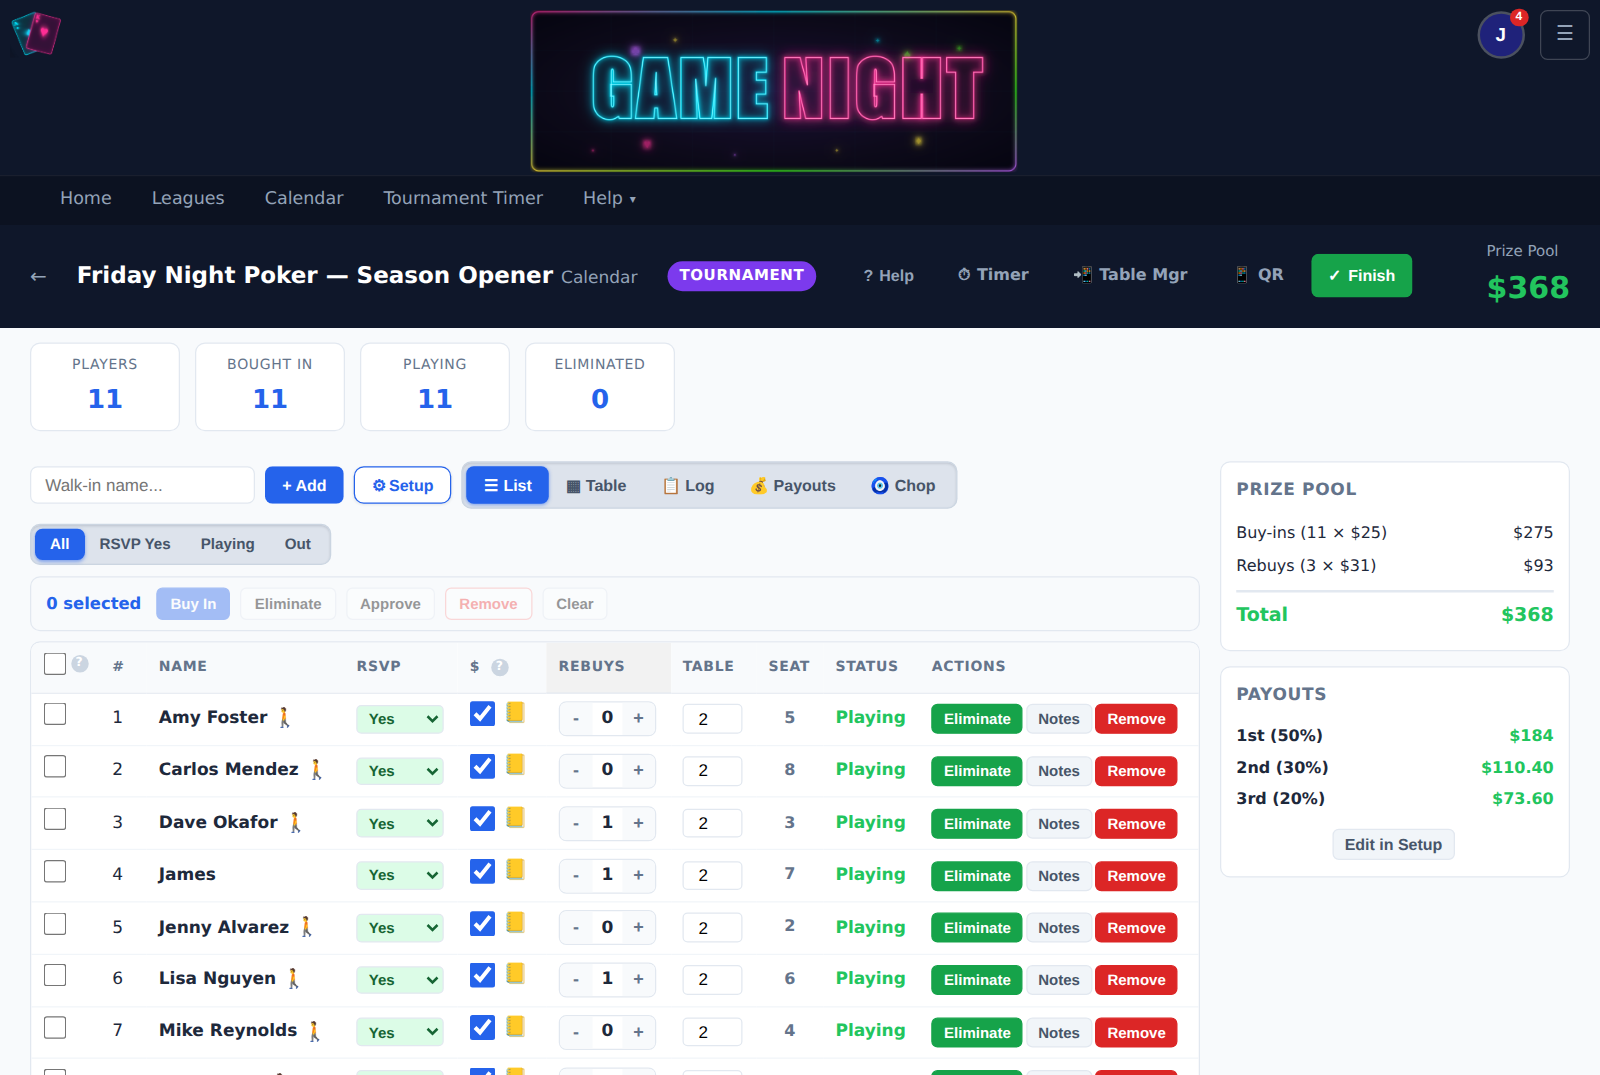
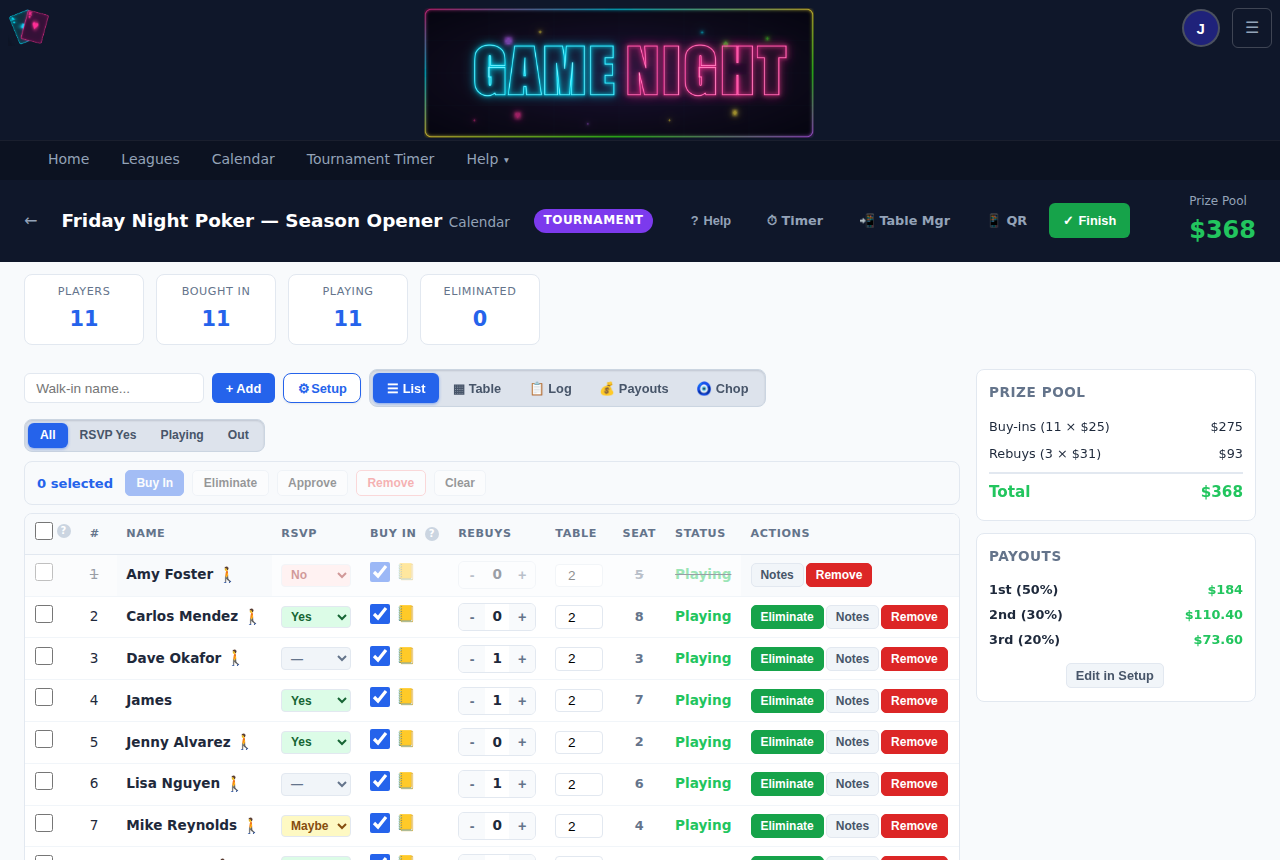
The Host Guide's step 7 describes the screen a host actually lands on (v1.8.3)
It said the first visit to "Check-in" shows a Start Poker Session form
and to press Create Session & Import Players. An event saved with Poker
on, which is the usual case, already has its game, so Manage Game opens
straight on the dashboard with everyone who said Yes on the list; the
form only appears for an event saved without poker. The step now says
so, uses the button's real name, describes Buy In seating players and
the Table view's Move, Add Table and Balance as they are, points at the
dashboard's ? Help, and ends with Finish and its warnings. The payouts
note names Edit in Setup rather than buttons that no longer exist.
checkin-start.png retaken so the picture shows the Buy In column.

diff --git a/www/help-hosts.php b/www/help-hosts.php
@@ -130,13 +130,9 @@ $allow_reg   = get_setting('allow_registration', '1') === '1';
 
     <div class="help-step">
         <h2><span class="step-num">7</span> Start the game</h2>
-        <p>On event day, open the event and go to <strong>Check-in</strong>. The first time you do, you'll see the <strong>Start Poker Session</strong> form:</p>
-        <ul>
-            <li><strong>Game Type</strong> &mdash; <em>Tournament</em> or <em>Cash Game</em>.</li>
-            <li><strong>Buy-in $</strong>, and for tournaments also <strong>Rebuy $</strong>, <strong>Add-on $</strong>, <strong>Starting Chips</strong>, and <strong>Add-on Chips</strong>.</li>
-            <li><strong>Number of Tables</strong>.</li>
-        </ul>
-        <p>Click <strong>Create Session &amp; Import Players</strong> &mdash; this pulls in everyone who RSVP'd Yes. On the check-in dashboard you can add walk-ins with the name field and <strong>+ Add</strong>, filter by <strong>All / RSVP Yes / Playing / Out</strong>, and switch to the <strong>Table</strong> view to seat people, where <strong>Balance</strong> auto-assigns tables and seats. The <strong>QR</strong> button opens a registration screen players can scan to sign themselves in.</p>
+        <p>On event day, open the event and press <strong>Manage Game</strong>. An event saved with <strong>Poker</strong> on (the usual case; it is on unless you turned it off) already has its game, with the buy-in, tables and seats you set, and everyone who answered Yes is on the list. You land straight on the dashboard.</p>
+        <p>An event saved without poker shows a short <strong>Start Poker Session</strong> form first instead: the game type (<em>Tournament</em> or <em>Cash Game</em>), the buy-in, for a tournament the rebuy, add-on and starting chips, and the number of tables. <strong>Create Session &amp; Import Players</strong> pulls in everyone who RSVP'd Yes.</p>
+        <p>On the dashboard, add walk-ins with the name field and <strong>+ Add</strong>, filter by <strong>All / RSVP Yes / Playing / Out</strong>, and tick <strong>Buy In</strong> as each player pays: that checks them in and gives them a seat. The <strong>Table</strong> view shows who sits where, with <strong>Move&hellip;</strong>, <strong>Add Table</strong> when the room outgrows one, and <strong>Balance</strong> to even the tables out. The <strong>QR</strong> button opens a registration screen players can scan to sign themselves in, and <strong>? Help</strong> on the dashboard explains every control on it.</p>
         <img class="help-shot" src="/img/help/checkin-start.png?v=<?= @filemtime(__DIR__ . '/img/help/checkin-start.png') ?: 0 ?>" alt="The check-in dashboard with a session running: player rows with buy-in, rebuys, table, seat and status, the Setup button, the List / Table / Log / Payouts / Chop views, and the prize pool">
         <p>When you're ready to play, click <strong>Timer</strong> to put the tournament clock on the big screen. It runs the blind schedule from <strong>Setup &rarr; Blinds</strong>, with your default structure loaded for you, breaks included. Everything about the game, blinds included, is edited in <strong>Setup</strong>, which is the next step.</p>
         <img class="help-shot" src="/img/help/blind-structure.png?v=<?= @filemtime(__DIR__ . '/img/help/blind-structure.png') ?: 0 ?>" alt="Setup → Blinds: the level grid with durations, blinds, antes, a break and start times">
@@ -145,8 +141,8 @@ $allow_reg   = get_setting('allow_registration', '1') === '1';
         <p>If you can manage the game, the display carries a control tray along its bottom edge: start / stop, previous and next level, <strong>&minus;1m</strong> / <strong>+1m</strong>, reset the level, undo, fullscreen, and <strong>Exit</strong> back to check-in. From a keyboard, the space bar starts and stops and the arrow keys step a level. Everyone else sees a clean clock. Eliminations and rebuys are marked here on the check-in dashboard as the night goes on (every player row has them), and the display follows.</p>
         <img class="help-shot" src="/img/help/timer-running.png?v=<?= @filemtime(__DIR__ . '/img/help/timer-running.png') ?: 0 ?>" alt="The Tournament Timer's Default Layout on a live game: the clock, blinds, next level and next break, players, average stack, entries and prize pool, the QR code, and the control tray along the bottom">
         <div class="hint">The display, casting it to more screens and building a layout of your own are covered in the <a href="/help-timer.php">Timer Guide</a>. Prefer the original clock? <strong>Tournament Timer Classic</strong> is a switch away under Setup &rarr; Timer.</div>
-        <p>That's it. After the event, results lock in and stats update automatically.</p>
-        <div class="hint"><strong>Payouts aren't loaded by default.</strong> No payout structure is set up automatically, so the <strong>Payouts</strong> card starts empty. If you want payout tracking (who finishes in the money, and for how much), set up a split first &mdash; use <strong>Edit in Settings</strong> on the Payouts card, or the <strong>Payout</strong> button on the check-in dashboard.</div>
+        <p>At the end, <strong>Finish</strong> locks in the standings and payouts and the stats update. It warns first if players are still in or no payout structure is set, and <strong>Reopen</strong> puts the game back if something was wrong. A tournament finishes by itself when the last player is eliminated.</p>
+        <div class="hint"><strong>Payouts aren't loaded by default.</strong> A game made from the event's Poker settings starts with no payout structure, so the <strong>Payouts</strong> card is empty. If you want payout tracking (who finishes in the money, and for how much), set up a split first: <strong>Edit in Setup</strong> on the Payouts card, which is <strong>Setup &rarr; Payouts &amp; Rewards</strong>.</div>
         <div class="hint">If you turned on <strong>Approval</strong> for the event, players who register by scanning the QR code land in <strong>pending approval</strong> until you wave them in from the check-in dashboard.</div>
     </div>
 

diff --git a/www/version.php b/www/version.php
@@ -1,5 +1,5 @@
 <?php
-define('APP_VERSION', '1.8.2');
+define('APP_VERSION', '1.8.3');
 
 // Source for the "update available" check (public repo, no auth needed).
 // run_update_check() in db.php fetches this, regexes out APP_VERSION, and

diff --git a/CHANGELOG.md b/CHANGELOG.md
@@ -13,6 +13,25 @@ lands and that heading is renamed when a release is cut.
 
 ---
 
+## [v1.8.3] - 2026-10-07
+
+### Fixed
+
+- **The Host Guide's step 7 describes the screen a host actually lands
+  on.** It said the first visit to "Check-in" shows a *Start Poker
+  Session* form and to press *Create Session & Import Players*. An event
+  saved with Poker on, which is the usual case, already has its game, so
+  *Manage Game* opens straight on the dashboard with everyone who said
+  Yes on the list; the form only appears for an event saved without
+  poker. The step now says so, uses the button's real name, describes Buy
+  In seating players and the Table view's Move, Add Table and Balance as
+  they are, points at the dashboard's *? Help*, and ends with Finish and
+  its warnings instead of "results lock in automatically". The payouts
+  note names *Edit in Setup* (the Payouts card) rather than buttons that
+  no longer exist.
+
+---
+
 ## [v1.8.2] - 2026-10-07
 
 ### Changed
